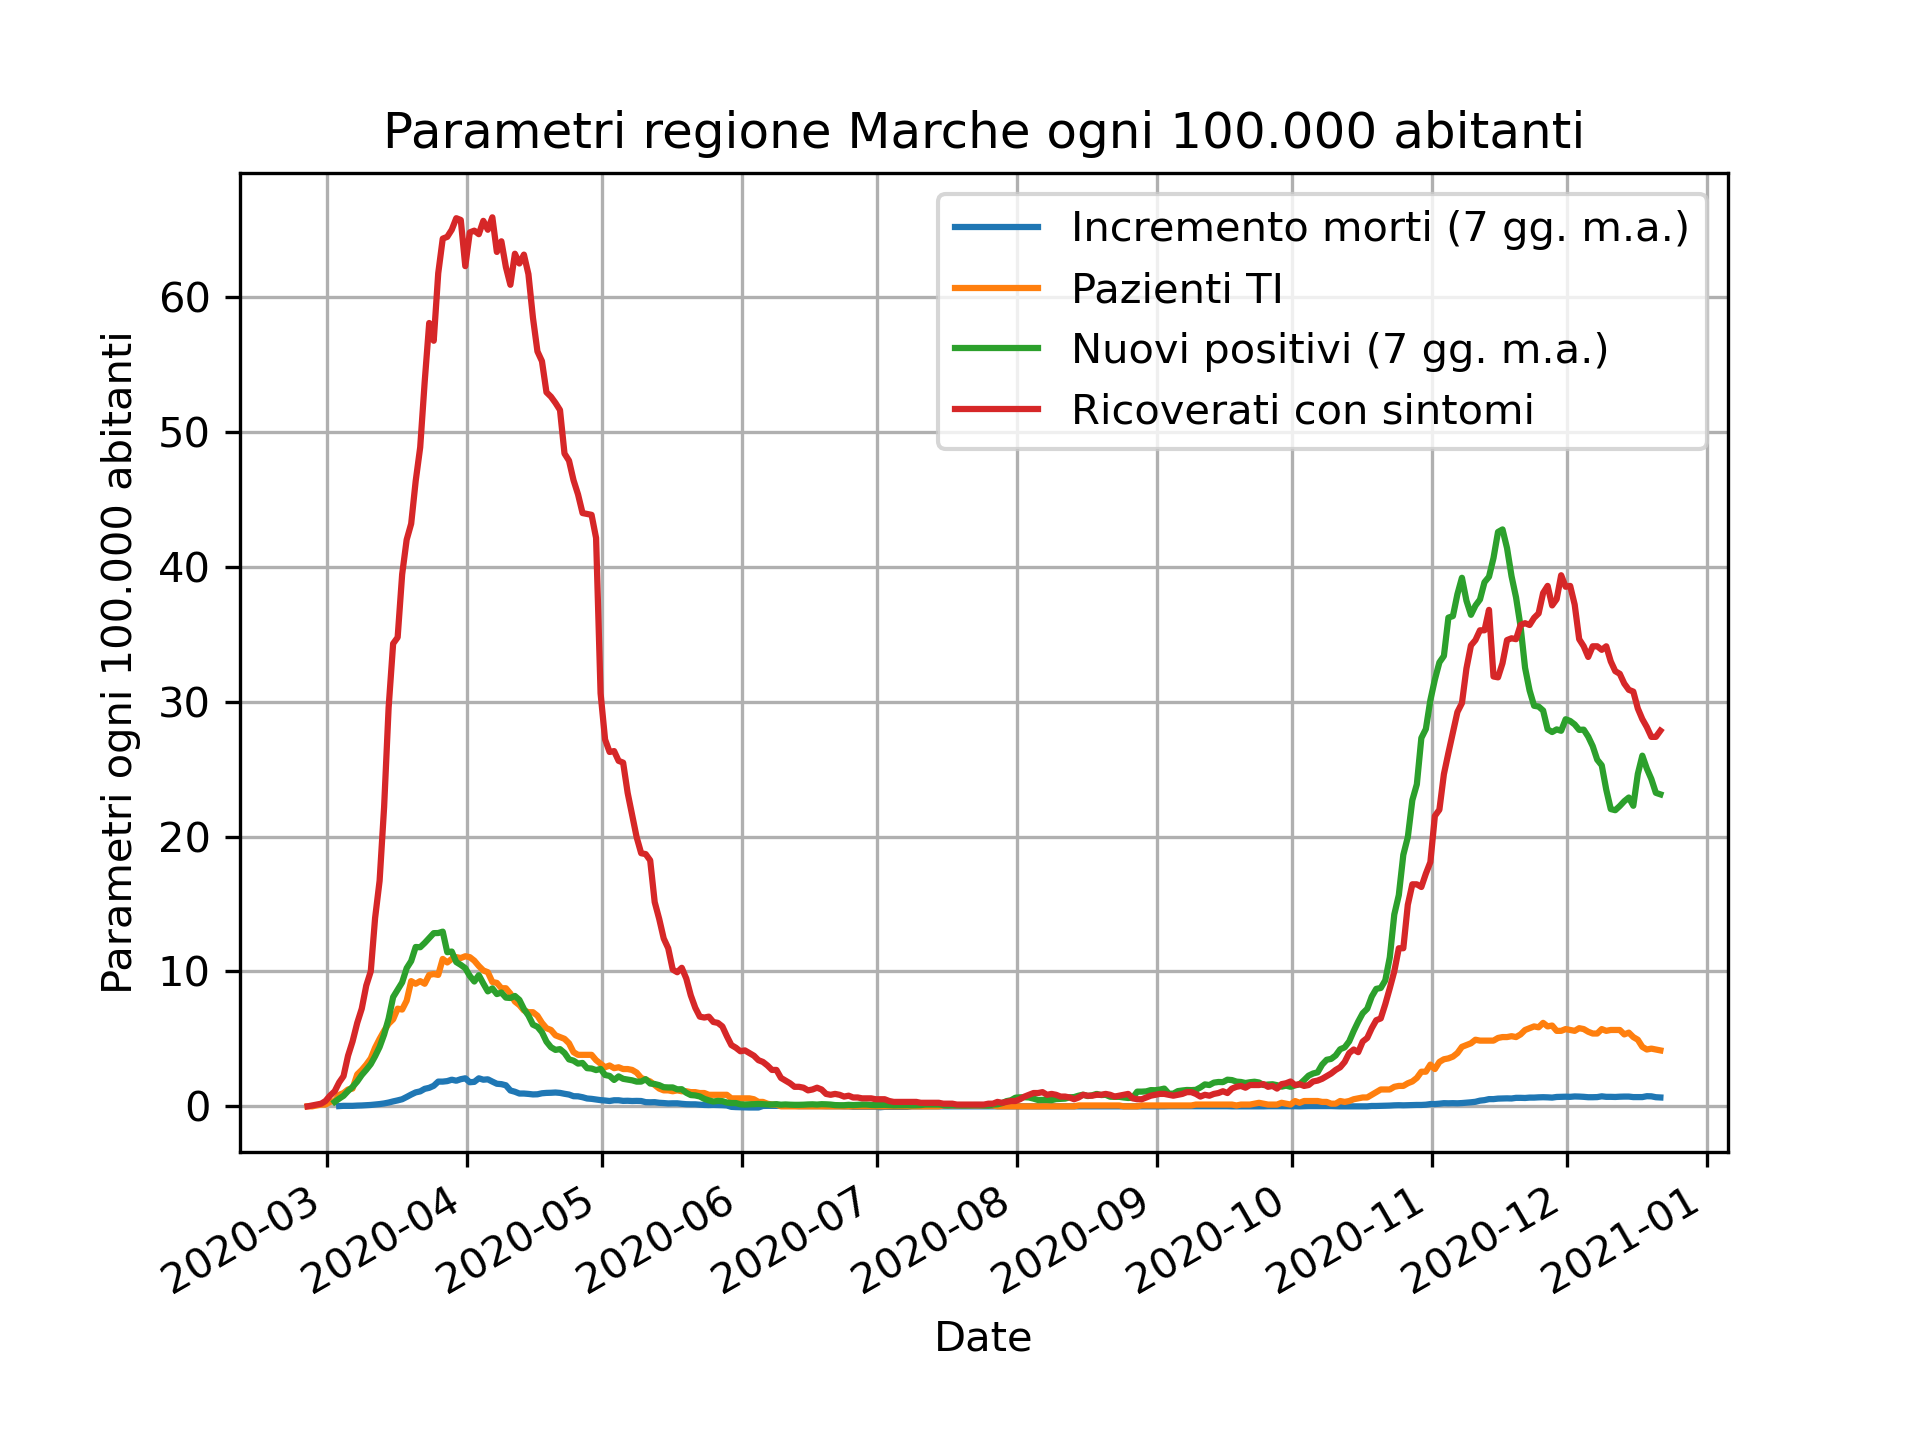
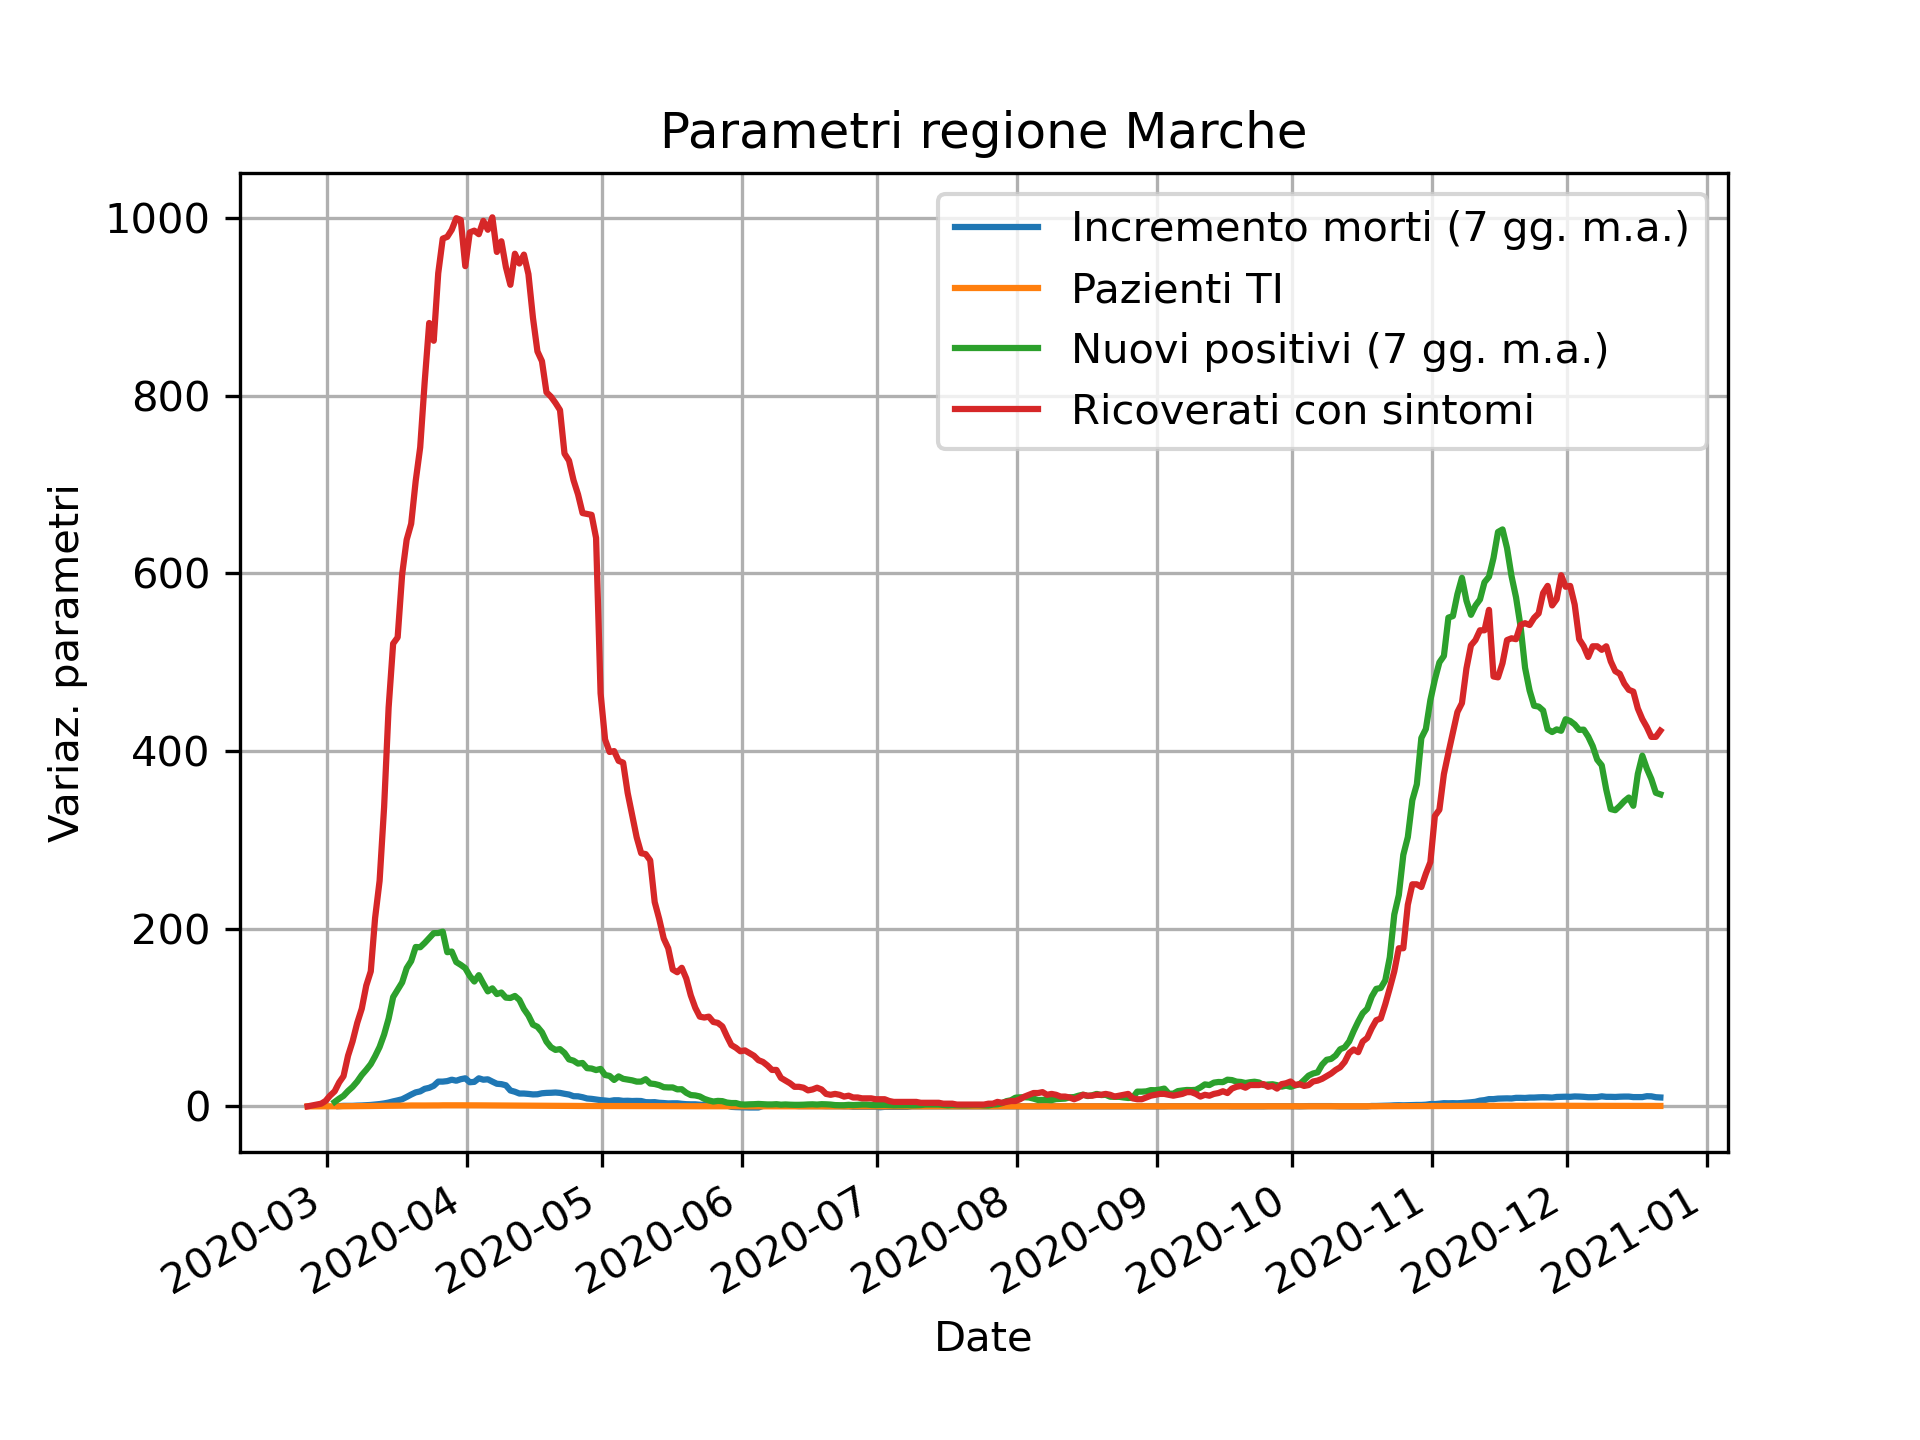
Add absolute data for Marche region

diff --git a/regions/analysis.py b/regions/analysis.py
@@ -200,21 +200,21 @@ def compute_marche_data(save_image=False, show=False):
 
     marche = extract_single_region_data(reg.marche)
 
-    dates, deaths = compute_x_days_mov_average(marche, 'incr_morti_per_100000_ab', 7)
+    dates, deaths = compute_x_days_mov_average(marche, 'incremento_morti', 7)
     plt.plot(dates, deaths, label='Incremento morti (7 gg. m.a.)')
 
-    plt.plot(marche['data'], marche['occ_ti_per_100000_ab'], label='Pazienti TI')
+    plt.plot(marche['data'], marche['occupazione_ti'], label='Pazienti TI')
 
-    dates, pos = compute_x_days_mov_average(marche, 'nuovi_pos_per_100000_ab', 7)
+    dates, pos = compute_x_days_mov_average(marche, 'nuovi_positivi', 7)
     plt.plot(dates, pos, label="Nuovi positivi (7 gg. m.a.)")
 
-    plt.plot(marche['data'], marche['ric_per_100000_ab'], label="Ricoverati con sintomi")
+    plt.plot(marche['data'], marche['ricoverati_con_sintomi'], label="Ricoverati con sintomi")
 
     plt.gcf().autofmt_xdate()
     plt.grid(True)
-    plt.title('Parametri regione Marche ogni 100.000 abitanti')
+    plt.title('Parametri regione Marche')
     plt.xlabel('Date')
-    plt.ylabel('Parametri ogni 100.000 abitanti')
+    plt.ylabel('Variaz. parametri')
     plt.legend()
 
     if save_image:

diff --git a/provinces/analysis.py b/provinces/analysis.py
@@ -100,6 +100,33 @@ def compute_total_cases_per_provinces(save_image=False, show=False):
     plt.close()
 
 
+def compute_total_cases_per_provinces_abs(save_image=False, show=False):
+    """
+    Computes and plots total cases in Marche provinces, as absolute cases.
+    """
+
+    provinces = extract_provinces_of_marche()
+
+    for province_name, province in provinces.items():
+        dates, cases = compute_x_days_mov_average(province, 'incremento_casi', 20)
+        plt.plot(dates, cases, label=province_name)
+
+    plt.gcf().autofmt_xdate()
+    plt.grid(True)
+    plt.title('Nuovi positivi Marche in valori assoluti (20 gg. m.a.)')
+    plt.xlabel('Date')
+    plt.ylabel('Nuovi positivi')
+    plt.legend()
+
+    if save_image:
+        plt.savefig('./docs/totale_casi_per_province_marche_abs.png', dpi=300, transparent=True)
+
+    if show:
+        plt.show()
+
+    plt.close()
+
+
 def compute_x_days_mov_average(df, column, window=7):
     """
     Computes an x-days-moving-average on the given column, of the given

diff --git a/charts_generation.py b/charts_generation.py
@@ -13,3 +13,4 @@ regions_analysis.compute_rec_with_symptoms(save_image=True, show=False)
 regions_analysis.compute_death(save_image=True, show=False)
 regions_analysis.compute_marche_data(save_image=True, show=False)
 provinces_analysis.compute_total_cases_per_provinces(save_image=True, show=False)
+provinces_analysis.compute_total_cases_per_provinces_abs(save_image=True, show=False)

diff --git a/README.md b/README.md
@@ -30,4 +30,7 @@ Charts are automatically updated each day. [Here](https://github.com/maldins46/C
 ![Parametri regione Marche](./docs/parametri_marche.png)
 
 
-![Deceduti per regioni](./docs/totale_casi_per_province_marche.png)
+![Casi per province Marche abs](./docs/totale_casi_per_province_marche.png)
+
+
+![Casi per province Marche abs](./docs/totale_casi_per_province_marche_abs.png)

diff --git a/index.md b/index.md
@@ -21,5 +21,8 @@ Charts are automatically updated each day. [Here](https://github.com/maldins46/C
 ![Parametri regione Marche](./docs/parametri_marche.png)
 
 
-![Deceduti per regioni](./docs/totale_casi_per_province_marche.png)
+![Casi per province Marche](./docs/totale_casi_per_province_marche.png)
+
+
+![Casi per province Marche abs](./docs/totale_casi_per_province_marche_abs.png)
 
